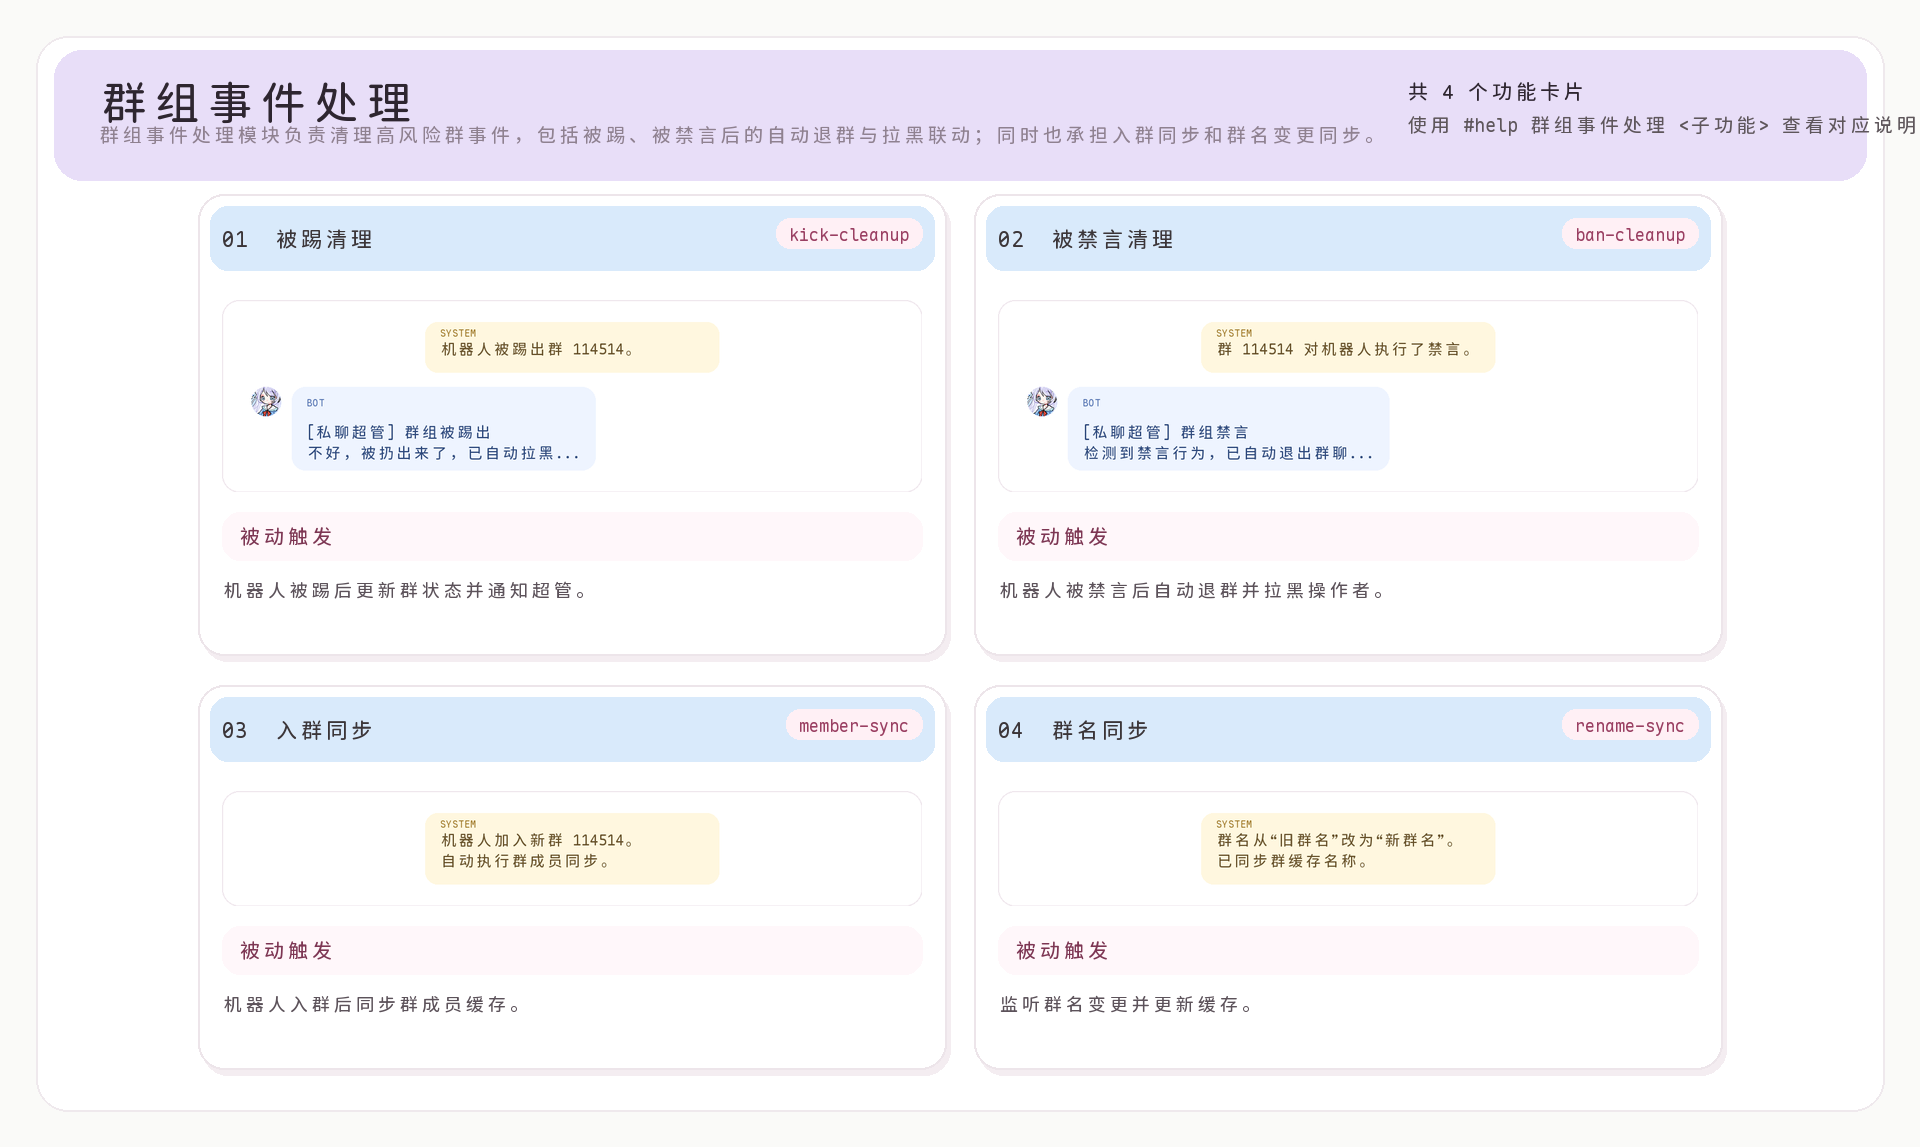
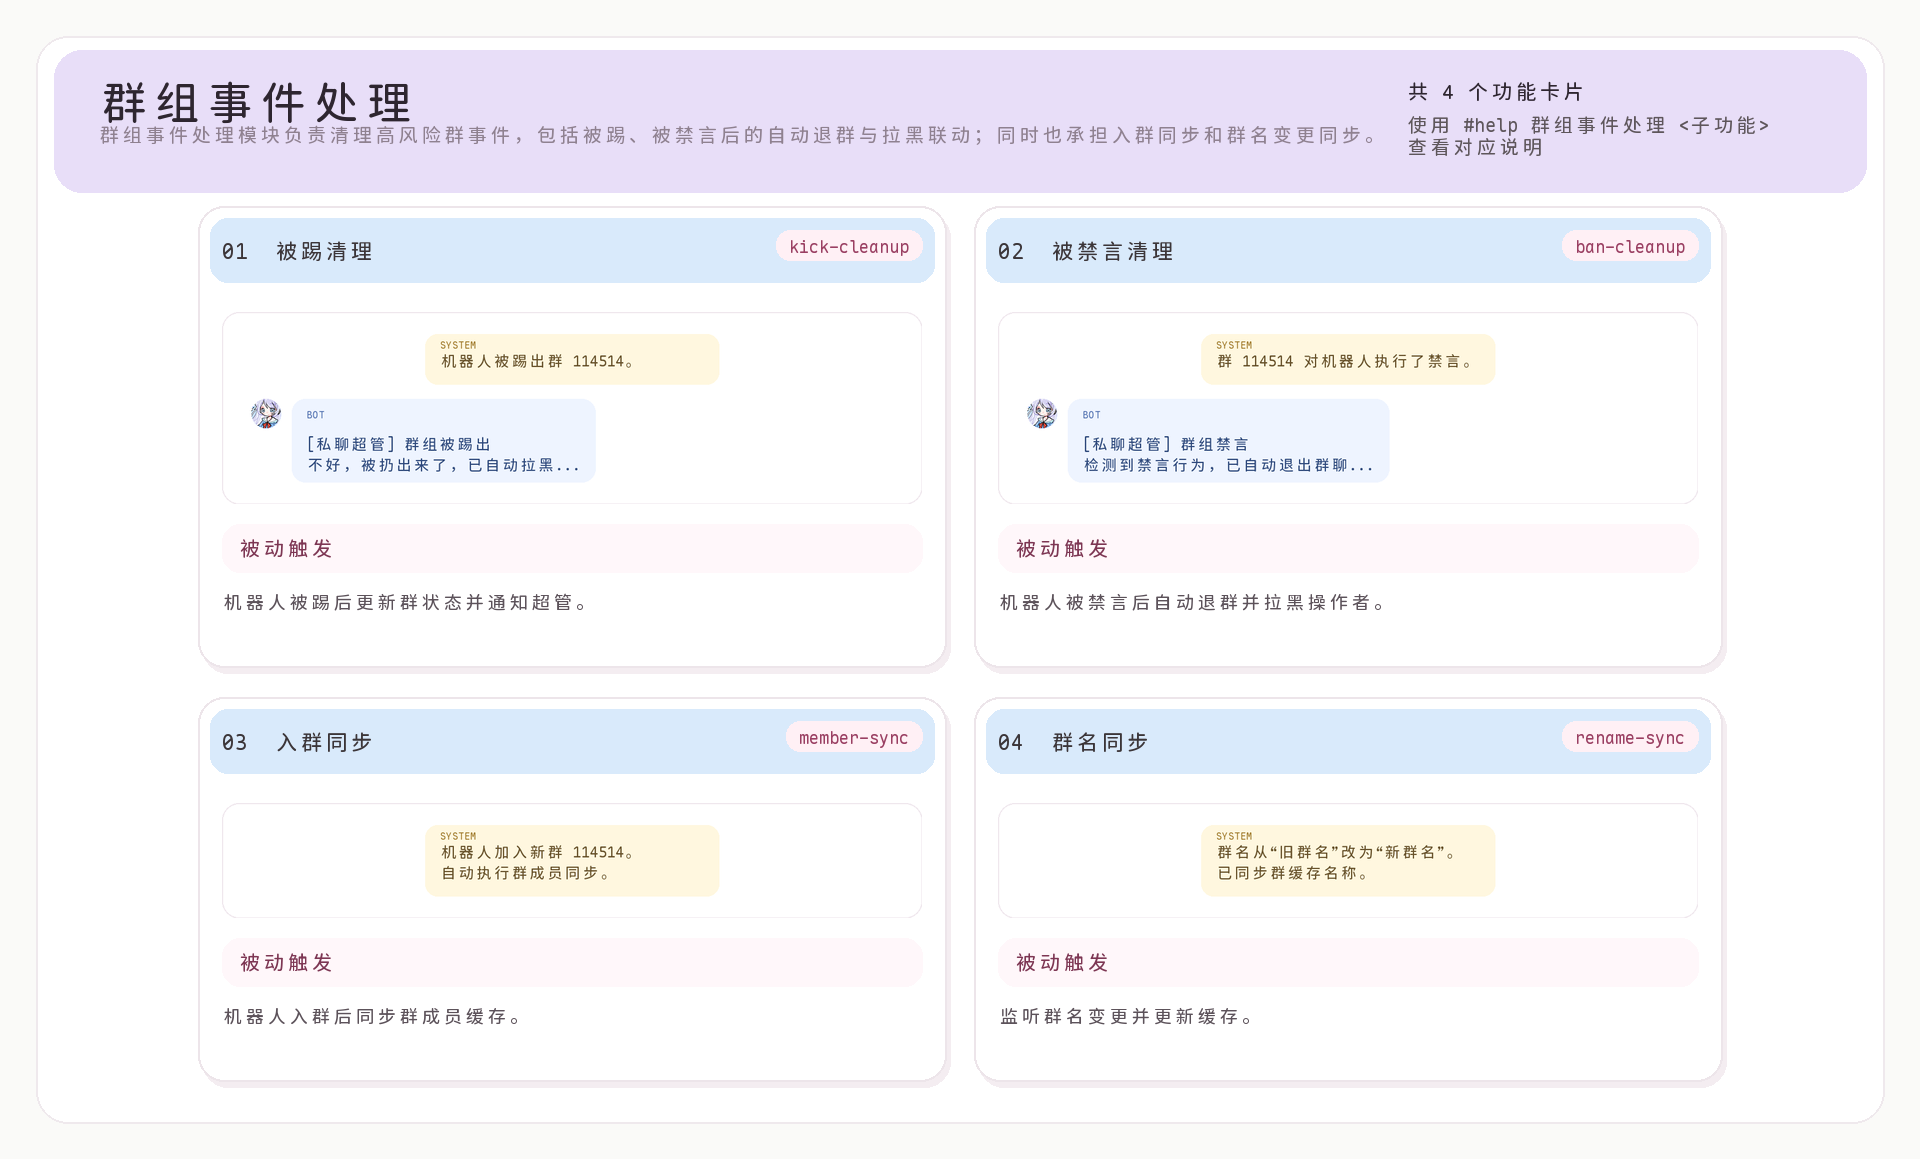
🎨 style(plugin-docs): refine collection layout and inline command wrapping

diff --git a/scripts/build_docs.py b/scripts/build_docs.py
@@ -295,6 +295,8 @@ class DemoCollectionRenderer:
     CARD_COMMAND_CODE_BG = "#FFFFFF"
     CARD_COMMAND_CODE_TEXT = "#8B2D57"
     CARD_COMMAND_CODE_BORDER = "#F0C8D7"
+    CARD_SLUG_MIN_WIDTH = 68
+    CARD_SLUG_MAX_WIDTH = 240
     INDEX_BG = "#F7E5EE"
     INDEX_TEXT = "#9A3F62"
     INLINE_CODE_BG = "#FFF7FA"
@@ -438,18 +440,8 @@ class DemoCollectionRenderer:
 
     def _card_height(self, tile: PreparedCollectionTile) -> int:
         content_width = self.card_width - self.CARD_PADDING * 2
-        command_lines = self._wrap_inline_text(
-            tile.trigger.strip() or f"#help {tile.slug}",
-            self.tile_body_font,
-            content_width,
-            max_lines=3,
-        )
-        summary_lines = self._wrap_inline_text(
-            tile.summary.strip() or "查看该子功能的用途、常见用法和关键边界。",
-            self.tile_meta_font,
-            content_width,
-            max_lines=3,
-        )
+        command_lines = self._tile_command_lines(tile, content_width)
+        summary_lines = self._tile_summary_lines(tile, content_width)
         command_height = len(command_lines) * self._line_height(self.tile_body_font, 8)
         summary_height = len(summary_lines) * self._line_height(self.tile_meta_font, 6)
         return (
@@ -625,17 +617,22 @@ class DemoCollectionRenderer:
 
         index_text = f"{tile.index:02d}"
         title_text = f"{index_text}  {tile.title}"
-        title_width_limit = content_width - 128
+        slug_text = tile.slug
+        slug_width = min(
+            self.CARD_SLUG_MAX_WIDTH,
+            max(
+                self.CARD_SLUG_MIN_WIDTH,
+                self._text_width(slug_text, self.slug_font) + 26,
+            ),
+        )
+        slug_x = x + self.card_width - self.CARD_PADDING - slug_width
+        title_width_limit = max(180, slug_x - title_x - 18)
         draw.text(
             (title_x, title_y + 7),
             self._ellipsize(title_text, self.tile_index_font, title_width_limit),
             fill=self.TITLE_BAND_TEXT,
             font=self.tile_index_font,
         )
-
-        slug_text = tile.slug
-        slug_width = min(150, self._text_width(slug_text, self.slug_font) + 26)
-        slug_x = x + self.card_width - self.CARD_PADDING - slug_width
         draw.rounded_rectangle(
             (slug_x, title_y, slug_x + slug_width, title_y + 30),
             radius=14,
@@ -652,12 +649,7 @@ class DemoCollectionRenderer:
         demo_y = y + self.CARD_PADDING + self.CARD_BAND_HEIGHT + self.CARD_DEMO_TOP_GAP
         image.paste(tile.image, (demo_x, demo_y))
 
-        command_lines = self._wrap_inline_text(
-            tile.trigger.strip() or f"#help {tile.slug}",
-            self.tile_body_font,
-            content_width,
-            max_lines=3,
-        )
+        command_lines = self._tile_command_lines(tile, content_width)
         command_top = demo_y + tile.image.height + self.CARD_DEMO_BOTTOM_GAP
         self._draw_info_block(
             draw,
@@ -673,12 +665,7 @@ class DemoCollectionRenderer:
         command_height = (
             len(command_lines) * self._line_height(self.tile_body_font, 8) + 22
         )
-        summary_lines = self._wrap_inline_text(
-            tile.summary.strip() or "查看该子功能的用途、常见用法和关键边界。",
-            self.tile_meta_font,
-            content_width,
-            max_lines=3,
-        )
+        summary_lines = self._tile_summary_lines(tile, content_width)
         summary_top = command_top + command_height + 18
         for index, line in enumerate(summary_lines):
             self._draw_inline_line(
@@ -723,29 +710,30 @@ class DemoCollectionRenderer:
         font: ImageFont.ImageFont | ImageFont.FreeTypeFont,
         max_width: int,
         *,
-        max_lines: int,
+        max_lines: int | None,
     ) -> list[tuple]:
         lines: list[tuple] = []
         current: list = []
         for span in split_inline_text_spans(text):
-            candidate = [*current, (span.text, span.code)]
-            if not current or self._inline_line_width(candidate, font) <= max_width:
-                current = candidate
-                continue
             if span.code:
-                lines.append(tuple(current))
-                current = [(span.text, span.code)]
+                current, flushed = self._append_code_span_wrapped(
+                    current,
+                    span.text,
+                    font,
+                    max_width,
+                )
+                lines.extend(flushed)
                 continue
-            for char in span.text:
-                candidate = self._append_inline_char(current, char, code=False)
-                if not current or self._inline_line_width(candidate, font) <= max_width:
-                    current = candidate
-                    continue
-                lines.append(tuple(current))
-                current = [(char, False)]
+            current, flushed = self._append_plain_span_wrapped(
+                current,
+                span.text,
+                font,
+                max_width,
+            )
+            lines.extend(flushed)
         if current:
             lines.append(tuple(current))
-        if len(lines) <= max_lines:
+        if max_lines is None or len(lines) <= max_lines:
             return lines
         clipped = lines[:max_lines]
         suffix = "..."
@@ -760,6 +748,147 @@ class DemoCollectionRenderer:
             clipped[-1] = clipped[-1][:-1]
         clipped[-1] = (*clipped[-1], (suffix, False))
         return clipped
+
+    def _tile_command_lines(
+        self,
+        tile: PreparedCollectionTile,
+        content_width: int,
+    ) -> list[tuple]:
+        return self._wrap_inline_text(
+            tile.trigger.strip() or f"#help {tile.slug}",
+            self.tile_body_font,
+            content_width,
+            max_lines=None,
+        )
+
+    def _tile_summary_lines(
+        self,
+        tile: PreparedCollectionTile,
+        content_width: int,
+    ) -> list[tuple]:
+        return self._wrap_inline_text(
+            tile.summary.strip() or "查看该子功能的用途、常见用法和关键边界。",
+            self.tile_meta_font,
+            content_width,
+            max_lines=None,
+        )
+
+    def _append_plain_span_wrapped(
+        self,
+        current: list[tuple[str, bool]],
+        text: str,
+        font: ImageFont.ImageFont | ImageFont.FreeTypeFont,
+        max_width: int,
+    ) -> tuple[list[tuple[str, bool]], list[tuple]]:
+        flushed: list[tuple] = []
+        segments = self._split_wrappable_segments(text)
+        for segment in segments:
+            candidate = [*current, (segment, False)]
+            if not current or self._inline_line_width(candidate, font) <= max_width:
+                current = candidate
+                continue
+            if current:
+                flushed.append(tuple(current))
+            current = []
+            if self._inline_line_width([(segment, False)], font) <= max_width:
+                current = [(segment, False)]
+                continue
+            for char in segment:
+                candidate = self._append_inline_char(current, char, code=False)
+                if not current or self._inline_line_width(candidate, font) <= max_width:
+                    current = candidate
+                    continue
+                flushed.append(tuple(current))
+                current = [(char, False)]
+        return current, flushed
+
+    def _append_code_span_wrapped(
+        self,
+        current: list[tuple[str, bool]],
+        text: str,
+        font: ImageFont.ImageFont | ImageFont.FreeTypeFont,
+        max_width: int,
+    ) -> tuple[list[tuple[str, bool]], list[tuple]]:
+        flushed: list[tuple] = []
+        candidate = [*current, (text, True)]
+        if self._inline_line_width(candidate, font) <= max_width:
+            return candidate, flushed
+        if self._inline_line_width([(text, True)], font) <= max_width:
+            if current:
+                flushed.append(tuple(current))
+            return [(text, True)], flushed
+        segments = self._split_wrappable_segments(text)
+        for segment in segments:
+            candidate = [*current, (segment, True)]
+            if not current or self._inline_line_width(candidate, font) <= max_width:
+                current = candidate
+                continue
+            if current:
+                flushed.append(tuple(current))
+            current = []
+            if self._inline_line_width([(segment, True)], font) <= max_width:
+                current = [(segment, True)]
+                continue
+            for piece in self._split_oversized_code_segment(segment, font, max_width):
+                if (
+                    current
+                    and self._inline_line_width(
+                        [*current, (piece, True)],
+                        font,
+                    )
+                    > max_width
+                ):
+                    flushed.append(tuple(current))
+                    current = []
+                current.append((piece, True))
+        return current, flushed
+
+    def _split_wrappable_segments(self, text: str) -> tuple[str, ...]:
+        separators = (" => ", " --", "|", "/", "_", " ")
+        segments: list[str] = []
+        buffer = text
+        while buffer:
+            matched = False
+            for separator in separators:
+                if separator in buffer:
+                    head, tail = buffer.split(separator, 1)
+                    if head:
+                        segments.append(head + separator)
+                    else:
+                        segments.append(separator)
+                    buffer = tail
+                    matched = True
+                    break
+            if not matched:
+                segments.append(buffer)
+                break
+        return tuple(segment for segment in segments if segment)
+
+    def _split_oversized_code_segment(
+        self,
+        text: str,
+        font: ImageFont.ImageFont | ImageFont.FreeTypeFont,
+        max_width: int,
+    ) -> tuple[str, ...]:
+        chunks: list[str] = []
+        current = ""
+        for char in text:
+            candidate = current + char
+            if (
+                current
+                and self._inline_line_width(
+                    [(candidate, True)],
+                    font,
+                )
+                > max_width
+            ):
+                chunks.append(current)
+                current = char
+                continue
+            current = candidate
+        if current:
+            chunks.append(current)
+        return tuple(chunks)
 
     def _draw_inline_line(
         self,

diff --git a/tests/test_plugin_docs.py b/tests/test_plugin_docs.py
@@ -154,6 +154,27 @@ def test_split_inline_text_spans_supports_adjacent_short_code_segments() -> None
     ]
 
 
+def test_load_plugin_doc_bundle_preserves_inline_backticks_in_meta_value() -> None:
+    source = Path("src/plugins/wordbank/docs/README.MD")
+
+    bundle = load_plugin_doc_bundle(
+        source=source,
+        default_name="词库模块",
+        default_description="desc",
+        trigger=TriggerType.COMMAND,
+        permission=Permission.NORMAL,
+    )
+
+    reply_shortcut = next(
+        feature for feature in bundle.index if feature.slug == "reply-shortcut"
+    )
+
+    assert (
+        reply_shortcut.trigger
+        == "回复机器人词库自动回复并发送 `info` / `history` / `del` / `rst`"
+    )
+
+
 def test_demo_image_renderer_fit_inline_spans_keeps_code_spans_without_backticks() -> (
     None
 ):
@@ -943,6 +964,56 @@ def test_collection_renderer_keeps_requested_two_column_layout() -> None:
     renderer = plugin_docs_script.DemoCollectionRenderer(columns=2, thumb_width=860)
 
     assert renderer._effective_columns(14) == 2  # pyright: ignore[reportPrivateUsage]
+
+
+def test_collection_wraps_long_code_command_spans_without_overflow() -> None:
+    renderer = plugin_docs_script.DemoCollectionRenderer(columns=2, thumb_width=860)
+
+    lines = renderer._wrap_inline_text(  # pyright: ignore[reportPrivateUsage]
+        "`wordbank add 触发词 => 响应词 --mode contains|fullmatch|prefix`",
+        renderer.tile_body_font,  # pyright: ignore[reportPrivateUsage]
+        320,
+        max_lines=None,
+    )
+
+    assert all(
+        renderer._inline_line_width(line, renderer.tile_body_font) <= 320  # pyright: ignore[reportPrivateUsage]
+        for line in lines
+    )
+    assert all(
+        not line[0][0].startswith(("|", "/", "_", " --", " => "))
+        for line in lines[1:]
+    )
+
+
+def test_collection_wraps_long_scope_code_command_spans_without_overflow() -> None:
+    renderer = plugin_docs_script.DemoCollectionRenderer(columns=2, thumb_width=860)
+
+    lines = renderer._wrap_inline_text(  # pyright: ignore[reportPrivateUsage]
+        (
+            "`wordbank add 触发词 => 响应词 --scope "
+            "current_group|all_groups|self|private_only`"
+        ),
+        renderer.tile_body_font,  # pyright: ignore[reportPrivateUsage]
+        320,
+        max_lines=None,
+    )
+
+    assert all(
+        renderer._inline_line_width(line, renderer.tile_body_font) <= 320  # pyright: ignore[reportPrivateUsage]
+        for line in lines
+    )
+    assert all(
+        not line[0][0].startswith(("|", "/", "_", " --", " => "))
+        for line in lines[1:]
+    )
+
+
+def test_collection_slug_chip_allows_wider_display_before_ellipsis() -> None:
+    renderer = plugin_docs_script.DemoCollectionRenderer(columns=2, thumb_width=860)
+
+    assert renderer.CARD_SLUG_MIN_WIDTH == 68
+    assert renderer.CARD_SLUG_MAX_WIDTH == 240
 
 
 def test_plugin_docs_build_runs_generate_compose_and_validate_in_order(

diff --git a/src/lib/plugin_docs.py b/src/lib/plugin_docs.py
@@ -576,8 +576,14 @@ def _parse_meta_block(block: str) -> dict[str, str]:
         if ":" not in payload:
             continue
         key, value = payload.split(":", 1)
-        meta[key.strip()] = value.strip().strip("`")
+        meta[key.strip()] = _strip_wrapping_backticks(value.strip())
     return meta
+
+
+def _strip_wrapping_backticks(value: str) -> str:
+    if len(value) >= 2 and value.startswith("`") and value.endswith("`"):
+        return value[1:-1].strip()
+    return value
 
 
 def _parse_permission(value: str) -> Permission:
